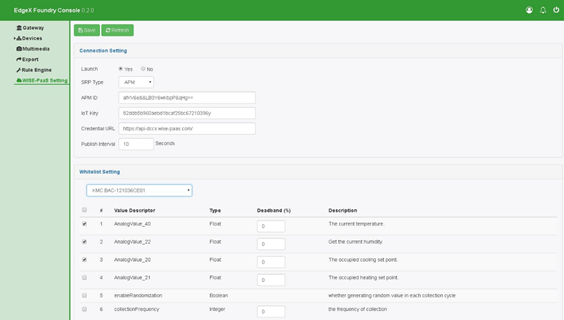
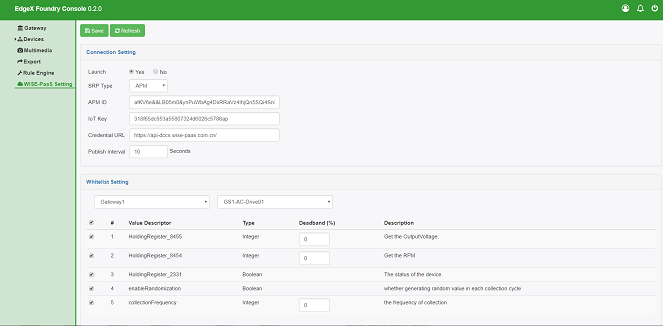
[modify] change hierarchy to four level for APM

diff --git a/integration-with-wise-paas.md b/integration-with-wise-paas.md
@@ -21,7 +21,7 @@
      * IoT Key：與WISE-PaaS IotHub連線所需的資訊，從APM Portal建立Gateway時取得。
      * Credential Url：與WISE-PaaS IotHub連線所需的資訊，從APM Portal建立Gateway時取得。
      * Publish Interval：資料上傳頻率。\(若為0則是設備資料有變化才上傳\)
-   * Whitelist Setting：設定設備資料上傳的白名單，下拉選擇設備之後，會列出該設備下的測點清單，勾選並設定好Deadband範圍即可。
+   * Whitelist Setting：設定設備資料上傳的白名單，下拉選擇Gateway和該Gateway下的設備之後，會列出該設備下的測點清單，勾選並設定好Deadband範圍即可。
 2. 設定完後，按下Save即開始傳送資料到WISE-PaaS。
 
 ![](/assets/complete.png)
